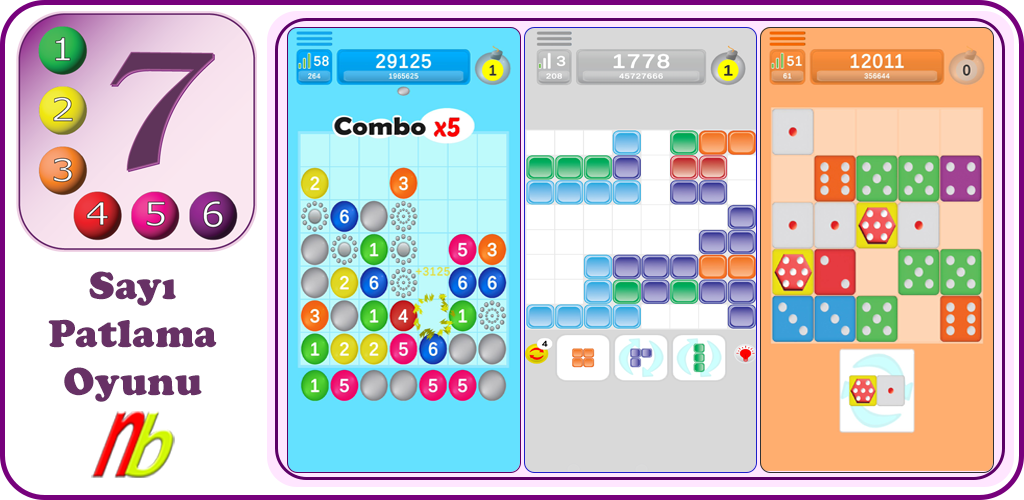
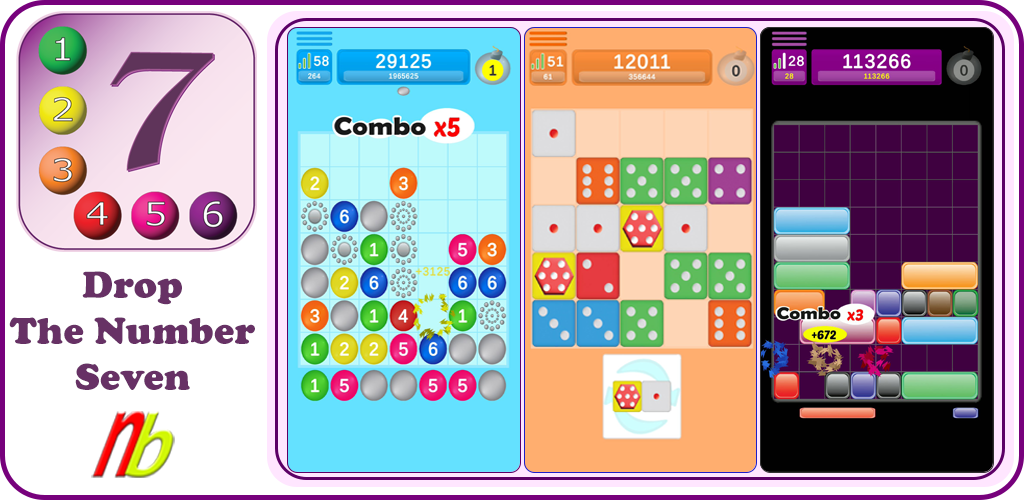
Signed-off-by: softnb <andsoftnb@gmail.com>

diff --git a/NBdropthenumber/indexTr.html b/NBdropthenumber/indexTr.html
@@ -36,17 +36,17 @@ drop pop+, drop pop, drop puzzle 3d, drop stack ball, number match, number merge
 					</tr>
 					<tr>
 					<td align="center">
-			<img border="0" src="images/01b_Tr.jpg" width="250" height="444"></td>
+			<img border="0" src="images/09_Tr.png" width="250" height="444"></td>
 					<td align="center">
 			<img border="0" src="images/02.jpg" width="250" height="444"></td>
 					<td align="center">
-			<img border="0" src="images/03.jpg" width="250" height="444"></td>
+			<img border="0" src="images/11.jpg" width="250" height="444"></td>
 					<td align="center">
 			<img border="0" src="images/04.jpg" width="250" height="444"></td>
 					</tr>
 					<tr>
 					<td align="center">
-			<img border="0" src="images/05.jpg" width="250" height="444"></td>
+			<img border="0" src="images/10_Tr.png" width="250" height="444"></td>
 					<td align="center">
 			<img border="0" src="images/06.jpg" width="250" height="444"></td>
 					<td align="center">
@@ -59,11 +59,15 @@ drop pop+, drop pop, drop puzzle 3d, drop stack ball, number match, number merge
 						<table border="0" width="98%">
 							<tr>
 								<td><p align="justify">&nbsp;<p align="justify">
-								Drop 7, Blok Oyunu ve Zar Birleştirme; Sizi 
-								bağımlı yapacak 3 oyun bir arada<br>
+								Drop 7, Slide Block, Block Game ve Zar 
+								Birleştirme; Sizi bağımlı yapacak 4 oyun bir 
+								arada<br>
 								<br>
-								Drop 7,: Topları numaralarına göre birleştirin 
-								ve patlatın.<br>
+								Drop 7: Topları numaralarına göre birleştirin ve 
+								patlatın.<br>
+								<br>
+								Slide Blok: Blokları kaydırın ve satırlarda 
+								birleştirin, ardından dolu satırları patlatın.<br>
 								<br>
 								Blok oyunu: Satırları ve sütunları bloklarla 
 								doldurarak patlatın.<br>
@@ -77,11 +81,10 @@ drop pop+, drop pop, drop puzzle 3d, drop stack ball, number match, number merge
 								edebilirsiniz.<br>
 								<br>
 								Reklamsız oyunlardan hoşlanan oyuncular 
-								interneti kapatarak çevrimdışı olarak 
-								oynayabilirler. Fakat; Hiçbir reklam çevrimdışı 
-								izlenmediği için jeton kazanılamaz. Drop Seven 
-								ücretsiz bir uygulamadır ancak reklam tabanlıdır. 
-								Seçim size kalmış.<br>
+								interneti kapatarak çevrimdışı oynayabilirler. 
+								Fakat; çevrimdışı reklam izlenmediği için jeton 
+								kazanılamaz. Drop Seven ücretsiz bir uygulamadır 
+								ancak reklam tabanlıdır. Seçim size kalmış.<br>
 								<br>
 								Boş zamanında; Bu oyunu oynayın, topu düşürün ve 
 								sayıları eşleştirin, diğer toplarla birleştirin, 
@@ -96,10 +99,8 @@ drop pop+, drop pop, drop puzzle 3d, drop stack ball, number match, number merge
 								oyunları mevcuttur.<br>
 								<br>
 								Fikirleriniz, sorularınız ve önerileriniz 
-								değerlidir. Paylaşım için
-								<a href="mailto:nbardakci1975@gmail.com">
-								nbardakci1975@gmail.com</a> adresine e-posta 
-								gönderiniz.<br>
+								değerlidir. Paylaşım için nbardakci1975@gmail.com 
+								adresine e-posta gönderiniz.<br>
 &nbsp;</td>
 							</tr>
 						</table>

diff --git a/NBdropthenumber/index.html b/NBdropthenumber/index.html
@@ -40,34 +40,37 @@ drop pop+, drop pop, drop puzzle 3d, drop stack ball, number match, number merge
 				</tr>
 				<tr>
 					<td align="center">
-			<img border="0" src="images/01b_Eng.jpg" width="250" height="444"></td>
+			<img border="0" src="images/09_Eng.png" width="250" height="444"></td>
 					<td align="center">
 			<img border="0" src="images/02.jpg" width="250" height="444"></td>
 					<td align="center">
-			<img border="0" src="images/03.jpg" width="250" height="444"></td>
+			<img border="0" src="images/11.jpg" width="250" height="444"></td>
 					<td align="center">
 			<img border="0" src="images/04.jpg" width="250" height="444"></td>
 				</tr>
 				<tr>
 					<td align="center">
-			<img border="0" src="images/05.jpg" width="250" height="444"></td>
+			<img border="0" src="images/10_Eng.png" width="250" height="444"></td>
 					<td align="center">
 			<img border="0" src="images/06.jpg" width="250" height="444"></td>
 					<td align="center">
-			<img border="0" src="images/07.jpg" width="250" height="444"></td>
+			<img border="0" src="images/05.jpg" width="250" height="444"></td>
 					<td align="center">
-			<img border="0" src="images/08.jpg" width="250" height="444"></td>
+			<img border="0" src="images/07.jpg" width="250" height="444"></td>
 				</tr>
 				<tr>
 					<td align="center" colspan="4">
 			<table border="1" width="98%" style="border-width: 0px">
 				<tr>
 					<td style="border-style: none; border-width: medium">&nbsp;<p>
-					Drop 7, Block Game, and Dice Merge; 3 games in one that will 
-					make you addicted<br>
+					Drop 7, Slide Block, Block Game, and Dice Merge; 4 games in 
+					one that will make you addicted<br>
 					<br>
 					Drop The Number Seven: Combine the balls according to the 
 					it&#39;s number then explode them.<br>
+					<br>
+					Slide Block: Slide the blocks and merge them on the rows 
+					then explode filled rows.<br>
 					<br>
 					Block game: Explode the rows and columns by filling them 
 					with blocks.<br>
@@ -95,7 +98,7 @@ drop pop+, drop pop, drop puzzle 3d, drop stack ball, number match, number merge
 					Your ideas, questions, and suggestions are valuable. For 
 					sharing, send an e-mail to
 					<a href="mailto:nbardakci1975@gmail.com">
-					nbardakci1975@gmail.com</a> <br>
+					nbardakci1975@gmail.com</a>. <br>
 &nbsp;</td>
 				</tr>
 			</table>
